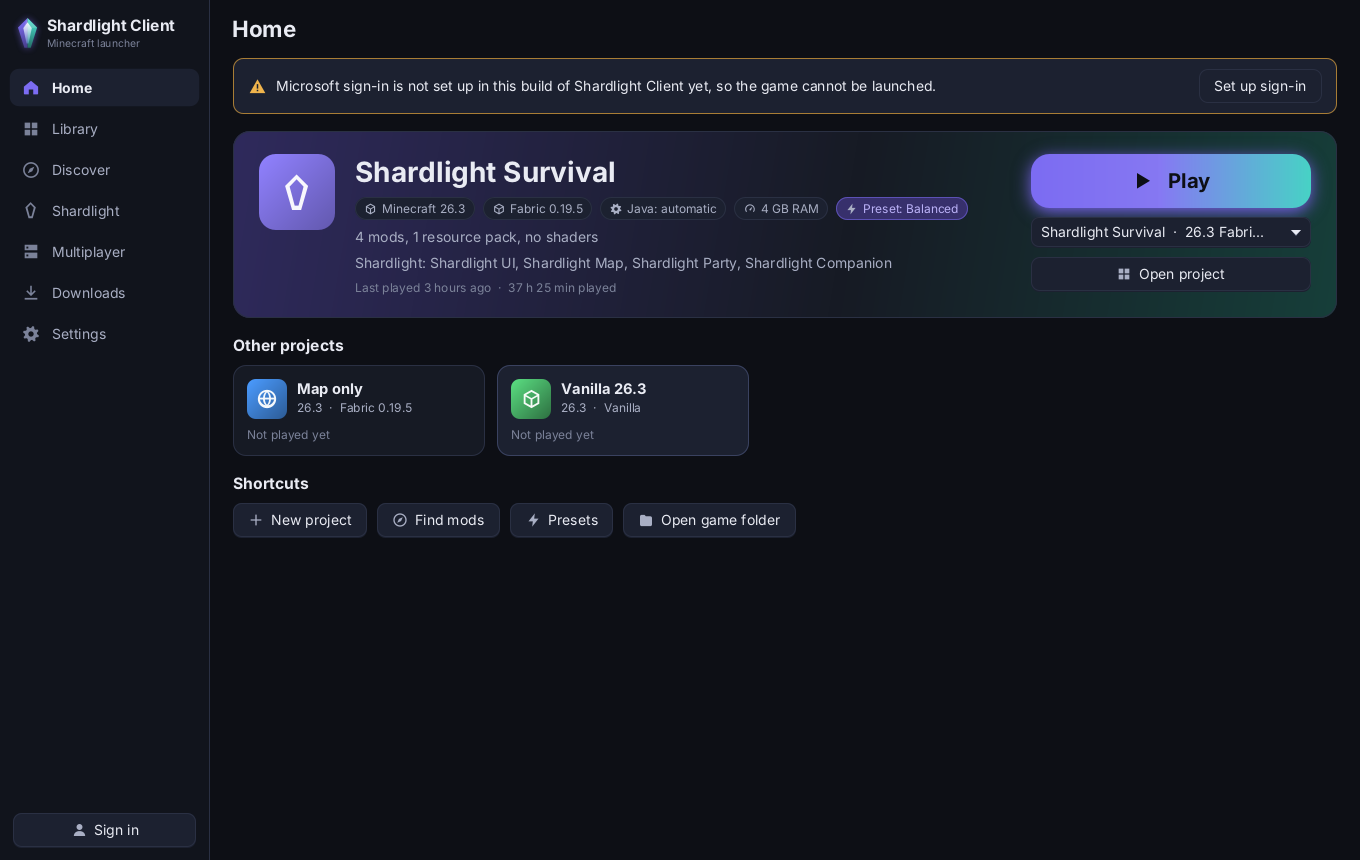
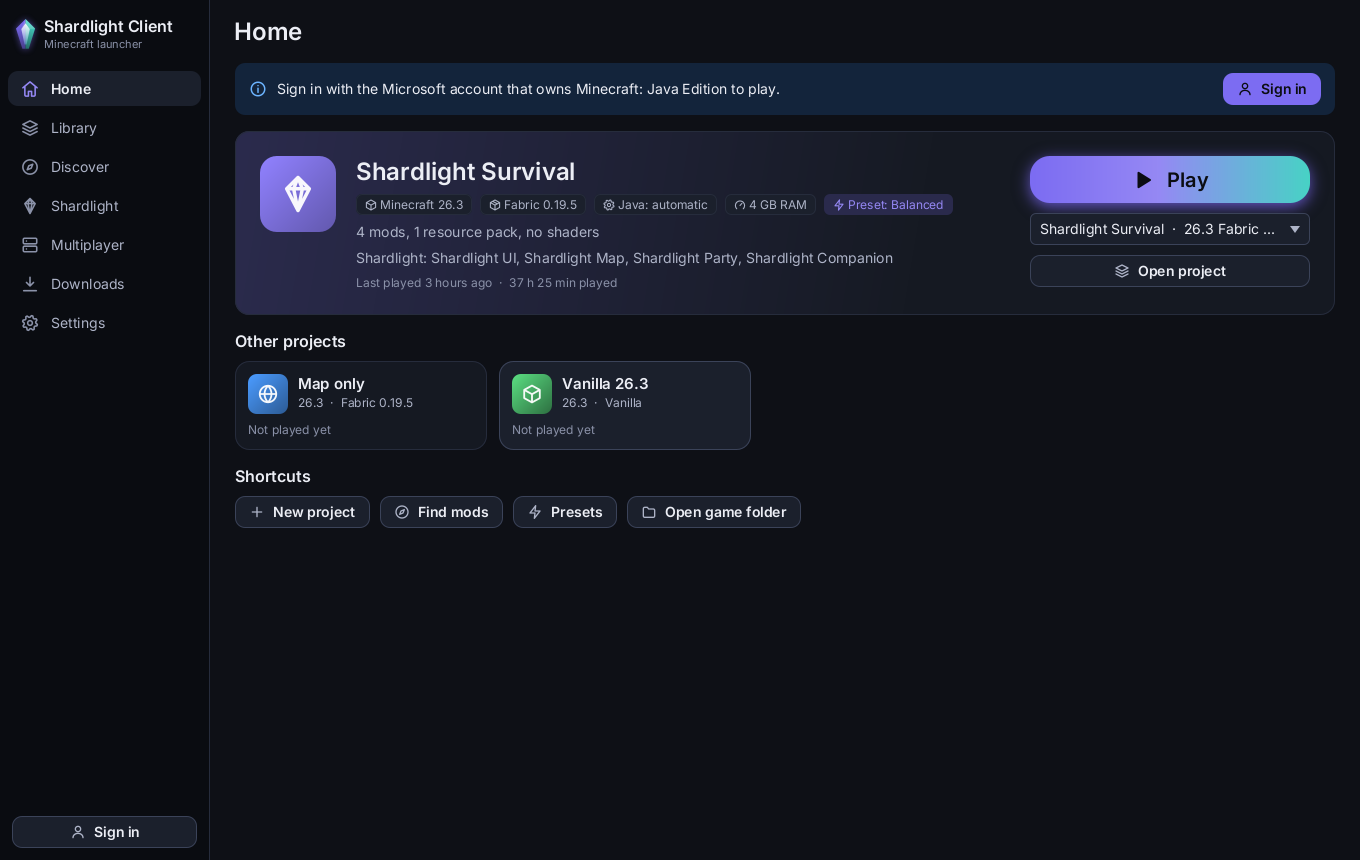
Add UI audit and design system docs, light captures and new screenshots
--capture now also saves Library, Discover and Settings in light mode.

diff --git a/launcher-app/src/main/java/dev/shardlight/client/app/AppContext.java b/launcher-app/src/main/java/dev/shardlight/client/app/AppContext.java
@@ -226,7 +226,6 @@ public final class AppContext {
         play.checkForUpdatesQuietly();
     }
 
-    /** pages saved by --capture, in order */
     /** the pages, tabs, sections and dialogs --capture saves, in order */
     List<String> captureSteps() {
         List<String> steps = new ArrayList<>(List.of("home", "library"));
@@ -238,7 +237,8 @@ public final class AppContext {
             "storage", "about")) {
             steps.add("settings-" + section);
         }
-        steps.addAll(List.of("signin", "crash", "home-light", "project-light"));
+        steps.addAll(List.of("signin", "crash", "home-light", "library-light", "project-light", "discover-light",
+            "settings-light"));
         return steps;
     }
 
@@ -253,7 +253,7 @@ public final class AppContext {
             showProjectTab(PROJECT_TABS.indexOf(id.substring(8)));
             return;
         }
-        if (id.startsWith("settings-")) {
+        if (id.startsWith("settings-") && !id.endsWith("-light")) {
             shell.navigate("settings");
             if (shell.current() instanceof SettingsPage sp) {
                 sp.open(id.substring(9));
@@ -273,15 +273,20 @@ public final class AppContext {
                 shell.navigate("home");
                 selectedProject().ifPresent(p -> play.showEnded(p, CaptureSeed.exampleCrash(services)));
             }
-            case "home-light", "project-light" -> {
+            case "home-light", "library-light", "project-light", "discover-light", "settings-light" -> {
                 LauncherSettings.Appearance light = dev.shardlight.client.util.Json.copy(services.settings().get().appearance,
                     LauncherSettings.Appearance.class);
                 light.theme = "light";
                 ThemeManager.apply(scene, light);
-                if (id.equals("home-light")) {
-                    shell.navigate("home");
-                } else {
-                    showProjectTab(1);
+                switch (id) {
+                    case "project-light" -> showProjectTab(1);
+                    case "settings-light" -> {
+                        shell.navigate("settings");
+                        if (shell.current() instanceof SettingsPage sp) {
+                            sp.open("appearance");
+                        }
+                    }
+                    default -> shell.navigate(id.substring(0, id.length() - "-light".length()));
                 }
             }
             default -> shell.navigate(id);

diff --git a/docs/DESIGN_SYSTEM.md b/docs/DESIGN_SYSTEM.md
@@ -1,0 +1,251 @@
+# Shardlight Client design system
+
+How the launcher looks and how to style anything new. The code lives in `launcher-app`:
+
+| What | Where |
+| --- | --- |
+| Colour tokens, type, spacing, shapes, every control | `src/main/resources/app/shardlight.css` |
+| Accent ramp and contrast maths | `ui/DesignTokens.java` |
+| Theme switching (dark, light, high contrast, compact, accent, size) | `ui/ThemeManager.java` |
+| Fonts | `ui/Fonts.java`, `src/main/resources/app/fonts/` |
+| Animation | `ui/Motion.java` (Reduce motion flag in `ui/UiSettings.java`) |
+| Icons | `ui/Icons.java` |
+| Shared widgets (buttons, cards, chips, banners, setting rows) | `ui/UiKit.java`, `ui/ToggleSwitch.java`, `ui/Overlay.java` |
+| Contrast test | `src/test/java/.../ui/DesignTokensContrastTest.java` |
+
+![After, dark](images/ui-overhaul/part1-after-dark.jpg)
+![After, light](images/ui-overhaul/part1-after-light.jpg)
+
+## Rules
+
+1. Use tokens and style classes, never raw colours or sizes in Java. If something new needs a colour,
+   add a token to `.root` and `.root.light` in the stylesheet and a pair to the contrast test.
+2. Sizes are in `em` so the interface size setting scales them (1 em = 14 px at 100%).
+3. Spacing and sizes sit on a 4 px grid. Corner radii come from the shape scale.
+4. An element has a border or a shadow, never both.
+5. Every interactive thing has hover, pressed, focused (`:focus-visible`) and disabled states.
+6. Only opacity, translation and scale are animated, always through `Motion`.
+7. Every visible string is a key in `src/main/resources/i18n/ui.properties`.
+
+## Colour tokens
+
+Tokens are JavaFX looked-up colours defined on `.root` (dark, the default) and `.root.light`. Light is
+designed on its own, not as an inverted dark: cool greys, white cards, deeper status colours.
+
+### Surfaces (five levels)
+
+| Token | Dark | Light | Use |
+| --- | --- | --- | --- |
+| `-sl-sunken` | `#0a0c11` | `#e9ebf1` | Wells: sidebar, code blocks, segmented controls, table headers |
+| `-sl-bg` | `#0e1016` | `#f3f4f8` | The window background |
+| `-sl-surface` | `#151922` | `#ffffff` | Cards, tiles, lists |
+| `-sl-raised` | `#1b202c` | `#f7f8fb` | Controls (buttons, combo boxes), hovered cards, the selected nav item |
+| `-sl-overlay-bg` | `#222838` | `#ffffff` | Floating things: modals, menus, popups, toasts |
+
+Fills and overlays for states: `-sl-fill` (hover fill, icon boxes), `-sl-fill-strong` (pressed fill,
+tracks), `-sl-field` (inside text fields and check boxes), `-sl-hover` and `-sl-pressed` (translucent, so
+they work on any surface).
+
+### Text (three levels) and borders (two levels)
+
+| Token | Dark | Light | Use |
+| --- | --- | --- | --- |
+| `-sl-text` | `#eceef5` | `#141722` | Primary text |
+| `-sl-text-2` | `#aeb4c8` | `#474d63` | Secondary text, default icons (`.muted`) |
+| `-sl-text-3` | `#8b92a9` | `#5f667d` | Captions, placeholders, hints (`.faint`) |
+| `-sl-border` | `#262c3c` | `#dde0e8` | Card and divider lines |
+| `-sl-border-strong` | `#3b4359` | `#b8bfcf` | Control outlines, hovered cards |
+
+All three text levels reach 4.5:1 on all five surfaces in both themes.
+
+### Accent ramp
+
+Computed by `DesignTokens.ramp(accent, light)` from the accent setting and set inline on the root by
+`ThemeManager.apply`, so changing the accent recolours every one of these at once. The stylesheet holds
+the values for the default purple (`#7C6CF2`).
+
+| Token | Use |
+| --- | --- |
+| `-sl-accent-subtle` | Tinted background: selected rows, accent chips, selected toggles, the hero gradient |
+| `-sl-accent-hover` | Accent fill under the pointer |
+| `-sl-accent` | Accent fill: primary buttons, switches, checked boxes, progress |
+| `-sl-accent-pressed` | Accent fill while pressed |
+| `-sl-accent-text` | Text and icons on the three accent fills |
+| `-sl-accent-fg` | Accent-coloured text, links and icons on surfaces; also the focus ring (`-sl-focus`) |
+
+How it is built: the chosen colour is kept if it already works; otherwise its HSL lightness moves the
+shortest distance until text on it reaches 4.5:1 (dark text on a lighter fill or white text on a darker
+one) and the fill reaches 3:1 against the surfaces. Hover and pressed move further away from the text
+colour, so they never lose contrast. `-sl-accent-fg` is moved until it reaches 4.5:1 on every surface.
+`-sl-accent-2` (teal `#46d3c4`) is the fixed second brand colour used only in the Play button and
+progress gradients.
+
+### Status
+
+Each has a strong variant (text, icons, fills) and a subtle one (backgrounds). Strong text reaches 4.5:1
+on every surface and on its own subtle background.
+
+| Token | Dark | Light |
+| --- | --- | --- |
+| `-sl-success` / `-sl-success-subtle` | `#4ad295` / `#11281f` | `#157a4a` / `#e2f4ea` |
+| `-sl-warning` / `-sl-warning-subtle` | `#f2b84f` / `#2b2312` | `#8a5a00` / `#fbf0d9` |
+| `-sl-danger` / `-sl-danger-subtle` | `#ff7b84` / `#33181c` | `#c0303d` / `#fde7e9` |
+| `-sl-info` / `-sl-info-subtle` | `#6cb4ff` / `#13243b` | `#1f66c2` / `#e4eefb` |
+
+Danger buttons use `-sl-on-danger` text and `-sl-danger-hover`.
+
+### Small pieces and old names
+
+`-sl-tooltip-bg` / `-sl-tooltip-text`, `-sl-knob` and `-sl-switch-off` (switches), `-sl-icon` (see
+Icons), `-sl-focus`. The names from before the design system still work: `-sl-bg-2` = `-sl-sunken`,
+`-sl-surface-2` = `-sl-raised`, `-sl-surface-3` = `-sl-fill`, `-sl-shadow` = `-sl-shadow-2`,
+`-sl-overlay` (= `-sl-scrim`) is the dimmed backdrop behind modals.
+
+### High contrast
+
+`.root.high-contrast` makes every text level primary text, makes borders clearly visible, and gives
+floating surfaces (modals, menus, toasts, tooltips) a border instead of a shadow.
+
+### Contrast test
+
+`DesignTokensContrastTest` reads the stylesheet and checks, in dark, light and both high-contrast
+variants: every text level and status colour on every surface (4.5:1), text on fills and subtle
+backgrounds, text on danger and tooltips, the switch knob on its track (3:1), and the accent ramp for all
+eight presets plus 200 random colours. It also checks that the stylesheet's default ramp matches what
+`DesignTokens` computes. Add a pair whenever you add a token that text sits on.
+
+## Type
+
+Fonts are bundled and loaded at startup by `Fonts.load()`; if one fails the matching system font is
+used. **Inter** for the interface, **Inter Tabular** (Inter with tabular figures, so digits line up and
+don't jiggle) for numbers, **JetBrains Mono** for logs and code. JavaFX only asks for regular or bold, so
+the bold slot holds Inter's SemiBold (600): `-fx-font-weight: bold` renders semibold.
+
+| Class | Size | At 100% | Weight | Use |
+| --- | --- | --- | --- | --- |
+| `.display` | 2.286em | 32 px | semibold | Hero titles |
+| `.h1`, `.page-title` | 1.714em | 24 px | semibold | Page titles |
+| `.h2`, `.modal-title` | 1.429em | 20 px | semibold | Section titles, dialog titles |
+| `.h3` | 1.143em | 16 px | semibold | Card titles, group headings |
+| `.body` (default) | 1em | 14 px | regular | Everything else |
+| `.small` | 0.857em | 12 px | regular | Secondary lines, chips, tooltips |
+| `.caption` (`.tiny`) | 0.786em | 11 px | regular | Labels under numbers, eyebrows |
+| `.mono` | 0.929em | 13 px | regular | Paths, versions, logs (`.code-block`, `.log-view`) |
+
+Use `.tabular` on any label showing a size, speed, count or time (`.stat-value`, `.progress-text` and
+`.table-cell.numeric` get it automatically). `.strong` makes text semibold; `.muted` and `.faint` pick
+the second and third text levels.
+
+## Spacing
+
+A 4 px grid. Use these steps only (em at 100%):
+
+| px | 4 | 8 | 12 | 16 | 24 | 32 | 48 |
+| --- | --- | --- | --- | --- | --- | --- | --- |
+| em | 0.286 | 0.571 | 0.857 | 1.143 | 1.714 | 2.286 | 3.429 |
+
+Cards pad 16, pages pad 24 at the sides, items in a card are 12 apart, sections on a page 16 apart.
+Java gaps (`new HBox(8, ...)`) should use the px column until those layouts move to CSS.
+
+## Shape
+
+| Radius | px | em | For |
+| --- | --- | --- | --- |
+| Small | 6 | 0.429 | Text fields, combo boxes, chips, tooltips, menu items |
+| Medium | 10 | 0.714 | Buttons, nav items, banners, menus, segmented controls |
+| Large | 14 | 1 | Cards, tiles, lists, toasts, the hero |
+| Extra large | 20 | 1.429 | Modals |
+
+Switches, sliders, progress bars and search fields are fully rounded.
+
+## Depth
+
+Three shadow levels, as classes and as the colours `-sl-shadow-1/2/3`:
+
+| Class | For |
+| --- | --- |
+| `.elevation-1` | Selected segment, slider thumbs, tooltips |
+| `.elevation-2` | Raised cards (`.card.raised`), menus, popups, toasts |
+| `.elevation-3` | Modals |
+
+Never a border and a shadow on one element: `.card.raised` drops its border. With Background effects off
+(`.root.no-effects`) shadows are removed and raised cards get their border back.
+
+## Motion
+
+Every animation goes through `ui/Motion.java`.
+
+| Speed | Duration | For |
+| --- | --- | --- |
+| `Motion.Speed.FAST` | 120 ms | Hover and press, switch knobs |
+| `Motion.Speed.MEDIUM` | 200 ms | Panels, popovers, toasts, the modal backdrop |
+| `Motion.Speed.SLOW` | 320 ms | Pages and modals |
+
+`Motion.ENTER` is ease-out (things appearing), `Motion.EXIT` is ease-in (things leaving). Helpers:
+`enter(node, speed, dy)` fades in while rising `dy` px (pages and toasts use `Motion.ENTER_OFFSET`, 8 px),
+`fadeIn`, `exit(node, speed, done)`, `pop(node, speed, from)` (modals grow from 0.96), `moveX`. With Reduce
+motion on, moves and scales are instant and fades take 80 ms. Never use `FadeTransition` and friends
+directly.
+
+## Icons
+
+`Icons.of(Icons.NAME, size)` returns a node (the app uses sizes such as 13, 16, 18 and 40). All icons are drawn on a
+24-unit grid as outlines with a 2-unit stroke and round caps and joins, inside 2.5 to 21.5, with corner
+radii of 1 to 2 units. Play, Stop and More are also filled. A clear 24x24 square keeps every glyph on the
+same grid, so icons line up with each other.
+
+The colour comes from the looked-up colour `-sl-icon`, which any ancestor can set; the nearest one wins:
+
+```css
+.button.primary { -sl-icon: -sl-accent-text; }
+.banner.warning { -sl-icon: -sl-warning; }
+```
+
+Helper classes: `.accent-icon`, `.success-icon`, `.warning-icon`, `.danger-icon`, `.info-icon`, `.muted`,
+`.faint`. To add an icon, draw it on the same grid with the same stroke, add the constant to `Icons`, and
+add it to `SOLID` only if it must be filled.
+
+Set: HOME, LIBRARY, DISCOVER, SHARD, SERVERS, DOWNLOAD, GEAR, PLAY, STOP, PLUS, SEARCH, FILTER, SORT, GRID,
+LIST, SLIDERS, FOLDER, TRASH, MORE, CLOSE, BACK, REFRESH, EXTERNAL, COPY, PIN, CHECK, WARNING, INFO,
+ERROR, UPDATE, CLOCK, SHIELD, BOLT, USER, PACKAGE, CUBE, IMAGE, ARCHIVE, PALETTE, GAUGE, SPARKLE, LOGS,
+STAR, HEART, EYE_OFF, KEY, WORLD, CPU, MEMORY, WIFI.
+
+## Controls
+
+Controls draw their outline and focus ring with background layers (`-fx-background-color: outline,
+fill; -fx-background-insets: 0, 1`), so focusing never moves anything. The focus ring is 2 px of
+`-sl-focus` and shows on keyboard focus only (`:focus-visible`); text fields show it whenever focused.
+
+| Control | How to get it | Notes |
+| --- | --- | --- |
+| Secondary button | `UiKit.button(...)` or a plain `Button` | Raised fill, strong outline |
+| Primary button | `UiKit.primary(...)`, class `primary` | One per view |
+| Ghost button | class `ghost` | Toolbars, rows |
+| Danger button | class `danger` | Destructive confirmations only |
+| Icon-only button | `UiKit.iconButton(icon, name, action)` | Ghost, with tooltip and accessible name |
+| Sizes | classes `small`, `large` | |
+| Text field | `TextField`; `search-field` for pill search; `error` for invalid input | |
+| Combo, choice, spinner, colour picker | the JavaFX control | Popups float on `-sl-overlay-bg` |
+| Check box, radio button | the JavaFX control | Accent fill when checked |
+| Switch | `new ToggleSwitch(value)` | Use inside `UiKit.settingRow` |
+| Slider | `Slider` | Accent thumb |
+| Tabs | `TabPane` | Underline in `-sl-accent-fg` |
+| Segmented | `UiKit.segmented(...)` | For 2 to 4 options |
+| Lists and tables | `ListView`, `TableView` | Selected row uses `-sl-accent-subtle` |
+| Chips | `UiKit.chip(text, variant)` | Variants: `accent`, `success`, `warning`, `danger`, `info` |
+| Banners | `UiKit.banner(kind, text)` | Subtle status background, strong icon |
+| Tooltips, context menus | `UiKit.tooltip`, `ContextMenu` | Menu items can add class `danger` |
+
+## Styling a new view
+
+1. Build it from `UiKit` pieces and JavaFX controls; give containers style classes (`card`, `page`,
+   `banner`, your own class) instead of `setStyle`.
+2. If it needs its own rules, add a short section near the end of `shardlight.css` (page-specific
+   pieces go after the base controls so they win), using only tokens, the spacing steps and the radius
+   scale.
+3. New colours: add the token to `.root` and `.root.light` (and `.root.high-contrast` if text levels are
+   involved), then add the text/background pair to `DesignTokensContrastTest`.
+4. Numbers get `.tabular`; paths and versions get `.mono`.
+5. Animate with `Motion` only.
+6. Check it with `--capture` in dark and light, at 100% and a larger interface size, with high contrast
+   and Reduce motion on, and with the keyboard alone.

diff --git a/docs/UI_AUDIT.md b/docs/UI_AUDIT.md
@@ -1,0 +1,64 @@
+# UI audit (before the overhaul)
+
+Taken from the 0.1.0 interface on the `launcher` branch, using `--capture` for every view in dark and
+light. The before and after shots are in `docs/images/ui-overhaul/`. Items marked **fixed** were dealt
+with in Part 1 (design system and base controls); the rest belong to the later parts of the overhaul.
+
+![Before](images/ui-overhaul/part1-before.jpg)
+
+## Colour
+
+- **Fixed.** Colours were a flat list (`-sl-bg`, `-sl-bg-2`, `-sl-surface-2`, `-sl-surface-3`...) with no
+  stated role, so the same grey meant "hover", "selected", "track" and "input" in different places.
+- **Fixed.** Search and filter fields: the placeholder text was nearly invisible on the dark input
+  background.
+- **Fixed.** Light mode was dark mode with the greys swapped. Warning (`#f0b44c`) and success
+  (`#47c98a`) text on white were about 2.0:1 and 2.1:1, far below the 4.5:1 WCAG AA minimum.
+- **Fixed.** The accent only changed `-sl-accent` and its text colour; hover, pressed and selected
+  states were `derive()` guesses. In light mode the default purple carried white text at about 4:1.
+- **Fixed.** Status colours had one shade each, so banners and chips mixed `derive()` borders with
+  full-strength text.
+- **Fixed.** Hard-coded colours in CSS (`white` on danger buttons, the modal shadow, monospace font lists).
+
+## Type
+
+- **Fixed.** The interface font came from whatever the computer had (Segoe UI, SF Pro, Inter, Noto...),
+  so spacing and line breaks differed between Windows, macOS and Linux.
+- **Fixed.** Numbers (sizes, speeds, play time) used proportional digits and jiggled as they changed.
+- **Fixed.** Sizes were ad hoc: 2, 1.6, 1.45, 1.35, 1.3, 1.12, 1.05, 0.9, 0.86, 0.82, 0.78, 0.76, 0.74 em.
+- Several labels set `-fx-font-weight: bold` inline in Java instead of using a style class (Part 3).
+
+## Spacing, shape and depth
+
+- **Fixed.** Padding and gaps used about 25 different em values (0.22, 0.45, 0.62, 0.65, 0.7...) and
+  corner radii 0.3 to 1.2 em with no rule.
+- **Fixed.** Raised cards, modals and toasts had both a border and a drop shadow.
+- Java layouts use fixed pixel gaps (`new HBox(10, ...)`, `new VBox(16, ...)`) that don't follow the
+  4 px grid or the interface size setting (Parts 2 to 4, page by page).
+
+## States
+
+- **Fixed.** Focus rings were drawn with `-fx-border-width: 1.6`, which shifted the content by a pixel.
+- **Fixed.** No pressed state on most buttons, toggles or list rows; disabled was only opacity on buttons.
+- **Fixed.** Check boxes, radio buttons, sliders, combo boxes, spinners and tabs had no hover or focus
+  styling of their own; the colour picker, scroll-bar corners and table headers fell back to Modena.
+- Lists show "Searching..." as plain text with no skeleton or empty state (Part 3).
+
+## Icons
+
+- **Fixed.** The set mixed solid shapes (Home, Library, Play) and outlined rings (Discover, Search,
+  Info) with different visual weights and corner styles.
+- **Fixed.** Missing icons for filter, sort, grid, list, favourite, time, CPU, memory, network, safety
+  and settings sliders.
+
+## Motion
+
+- **Fixed.** Three hand-written animations (page fade 130 ms, modal fade 140 ms, switch 120 ms) with
+  default easing, each checking Reduce motion on its own.
+
+## Layout (later parts)
+
+- Library tiles: the Play and Open buttons sit at different heights because descriptions wrap to one or
+  two lines.
+- Large empty areas under short pages (Home, Discover while loading); no page width limit on wide windows.
+- Project page header: chips wrap onto a second line at the default window size.

diff --git a/CHANGELOG.md b/CHANGELOG.md
@@ -2,6 +2,17 @@
 
 All notable changes to Shardlight Client. Versions follow [semantic versioning](https://semver.org).
 
+## Unreleased
+
+### Changed
+
+- **Design system** (UI overhaul, part 1): bundled Inter, Inter Tabular and JetBrains Mono fonts; colour
+  tokens with five surface levels, three text levels, an accent ramp computed from the accent setting
+  and strong and subtle status colours, checked against WCAG AA by a test; a separate light palette; one
+  type, spacing, radius and shadow scale; a `Motion` helper that honours Reduce motion; a redrawn outline
+  icon set with 11 new icons; restyled buttons, fields, menus, check boxes, switches, sliders, tabs,
+  lists, tables, scroll bars and tooltips. See docs/DESIGN_SYSTEM.md and docs/UI_AUDIT.md.
+
 ## 0.1.0 (unreleased preview)
 
 The first version: a standalone launcher with projects, mod browsing, optional Shardlight modules and
